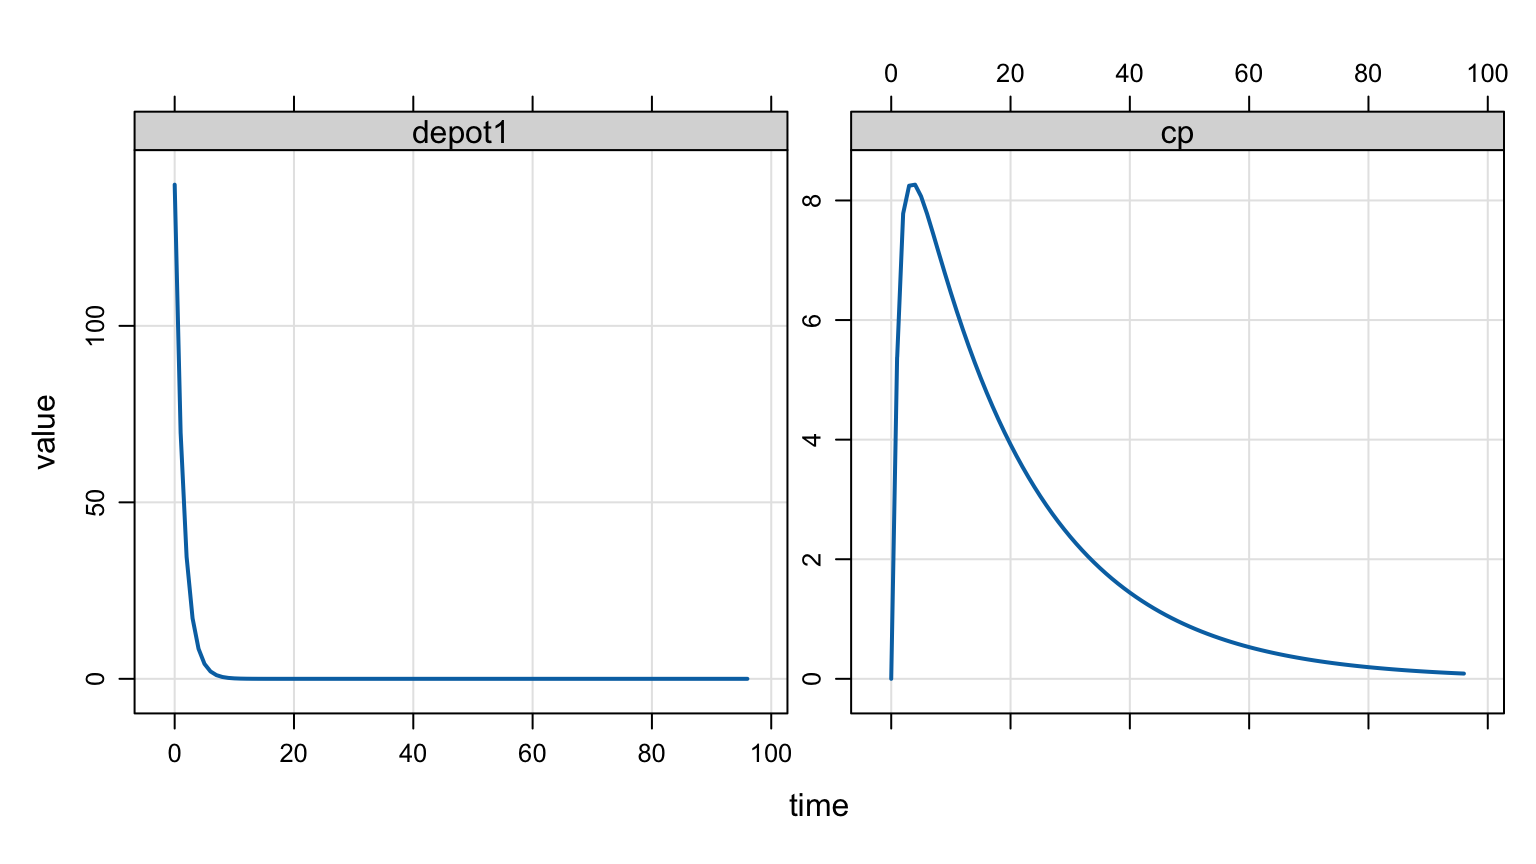
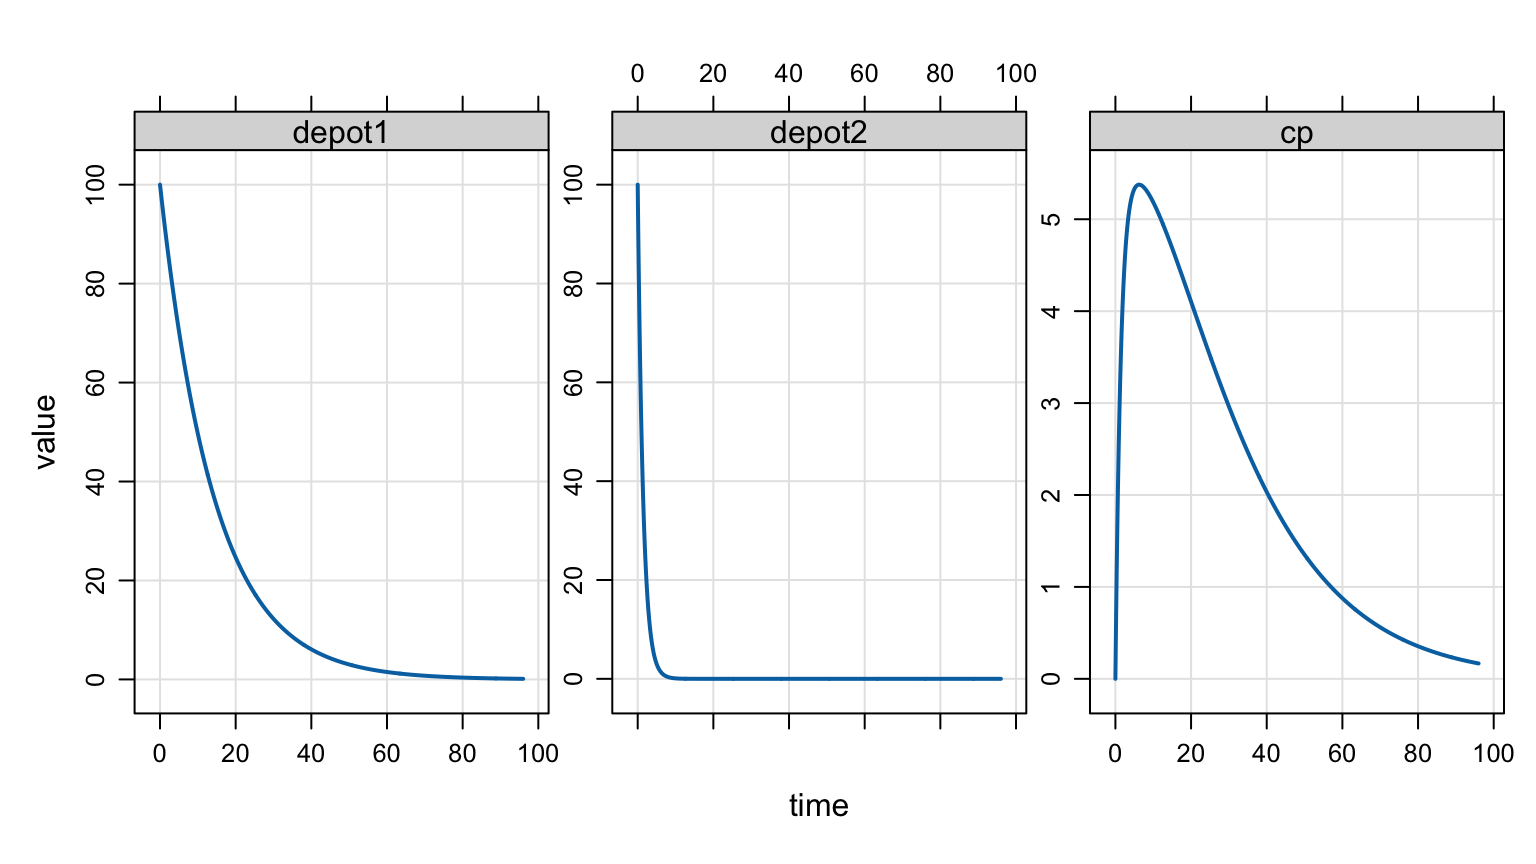
add comparison figure

diff --git a/docs/posts/split-dose.html b/docs/posts/split-dose.html
@@ -418,15 +418,15 @@ Full model code - spilt first-order absorption
 <span id="cb5-6"><a href="#cb5-6" aria-hidden="true" tabindex="-1"></a>ka1 <span class="op">=</span> <span class="fl">0.07</span></span>
 <span id="cb5-7"><a href="#cb5-7" aria-hidden="true" tabindex="-1"></a>ka2 <span class="op">=</span> <span class="fl">0.7</span></span>
 <span id="cb5-8"><a href="#cb5-8" aria-hidden="true" tabindex="-1"></a></span>
-<span id="cb5-9"><a href="#cb5-9" aria-hidden="true" tabindex="-1"></a>$pk</span>
-<span id="cb5-10"><a href="#cb5-10" aria-hidden="true" tabindex="-1"></a>F1 <span class="op">=</span> <span class="fl">0.5</span><span class="op">;</span></span>
-<span id="cb5-11"><a href="#cb5-11" aria-hidden="true" tabindex="-1"></a>F2 <span class="op">=</span> <span class="fl">0.5</span><span class="op">;</span></span>
-<span id="cb5-12"><a href="#cb5-12" aria-hidden="true" tabindex="-1"></a></span>
-<span id="cb5-13"><a href="#cb5-13" aria-hidden="true" tabindex="-1"></a><span class="cf">if</span><span class="op">(</span>CMT<span class="op">==</span><span class="dv">1</span> <span class="op">&amp;&amp;</span> <span class="op">(</span>EVID<span class="op">==</span><span class="dv">1</span> <span class="op">||</span> EVID<span class="op">==</span><span class="dv">4</span><span class="op">))</span> <span class="op">{</span></span>
-<span id="cb5-14"><a href="#cb5-14" aria-hidden="true" tabindex="-1"></a>  evt<span class="op">::</span>bolus<span class="op">(</span>self<span class="op">,</span> AMT<span class="op">,</span> <span class="dv">2</span><span class="op">);</span></span>
-<span id="cb5-15"><a href="#cb5-15" aria-hidden="true" tabindex="-1"></a><span class="op">}</span></span>
-<span id="cb5-16"><a href="#cb5-16" aria-hidden="true" tabindex="-1"></a></span>
-<span id="cb5-17"><a href="#cb5-17" aria-hidden="true" tabindex="-1"></a>$cmt depot1 depot2 central</span>
+<span id="cb5-9"><a href="#cb5-9" aria-hidden="true" tabindex="-1"></a>$cmt depot1 depot2 central</span>
+<span id="cb5-10"><a href="#cb5-10" aria-hidden="true" tabindex="-1"></a></span>
+<span id="cb5-11"><a href="#cb5-11" aria-hidden="true" tabindex="-1"></a>$pk</span>
+<span id="cb5-12"><a href="#cb5-12" aria-hidden="true" tabindex="-1"></a>F1 <span class="op">=</span> <span class="fl">0.5</span><span class="op">;</span></span>
+<span id="cb5-13"><a href="#cb5-13" aria-hidden="true" tabindex="-1"></a>F2 <span class="op">=</span> <span class="fl">0.5</span><span class="op">;</span></span>
+<span id="cb5-14"><a href="#cb5-14" aria-hidden="true" tabindex="-1"></a></span>
+<span id="cb5-15"><a href="#cb5-15" aria-hidden="true" tabindex="-1"></a><span class="cf">if</span><span class="op">(</span>CMT<span class="op">==</span><span class="dv">1</span> <span class="op">&amp;&amp;</span> <span class="op">(</span>EVID<span class="op">==</span><span class="dv">1</span> <span class="op">||</span> EVID<span class="op">==</span><span class="dv">4</span><span class="op">))</span> <span class="op">{</span></span>
+<span id="cb5-16"><a href="#cb5-16" aria-hidden="true" tabindex="-1"></a>  evt<span class="op">::</span>bolus<span class="op">(</span>self<span class="op">,</span> AMT<span class="op">,</span> <span class="dv">2</span><span class="op">);</span></span>
+<span id="cb5-17"><a href="#cb5-17" aria-hidden="true" tabindex="-1"></a><span class="op">}</span></span>
 <span id="cb5-18"><a href="#cb5-18" aria-hidden="true" tabindex="-1"></a></span>
 <span id="cb5-19"><a href="#cb5-19" aria-hidden="true" tabindex="-1"></a>$des</span>
 <span id="cb5-20"><a href="#cb5-20" aria-hidden="true" tabindex="-1"></a>dxdt_depot1 <span class="op">=</span> <span class="op">-</span>ka1 <span class="op">*</span> depot1<span class="op">;</span></span>
@@ -450,12 +450,22 @@ Full model code - spilt first-order absorption
 <div class="cell-output-display">
 <div>
 <figure class="figure">
-<p><img src="split-dose_files/figure-html/unnamed-chunk-7-1.png" class="img-fluid figure-img" width="768"></p>
+<p><img src="split-dose_files/figure-html/unnamed-chunk-8-1.png" class="img-fluid figure-img" width="768"></p>
 </figure>
 </div>
 </div>
 </div>
-<p>Now we see 100 mg going into <code>depot1</code> with slow exit and 100 mg going into <code>depot2</code> with faster exit. The way I’ve set up the example, the concentration increases much more quickly after adding the fast absorption through <code>depot2</code> in combination with the slower absorption via <code>depot1</code>. I don’t know the specifics about the diastereomers from the original question, but we can see that this code splits the dose in two compartments as requested.</p>
+<p>Now we see 100 mg going into <code>depot1</code> with slow exit and 100 mg going into <code>depot2</code> with faster exit. The way I’ve set up the example, the concentration increases much more quickly after adding the fast absorption through <code>depot2</code> in combination with the slower absorption via <code>depot1</code>.</p>
+<div class="cell" data-layout-align="center">
+<div class="cell-output-display">
+<div class="quarto-figure quarto-figure-center">
+<figure class="figure">
+<p><img src="split-dose_files/figure-html/unnamed-chunk-9-1.png" class="img-fluid quarto-figure quarto-figure-center figure-img" width="480"></p>
+</figure>
+</div>
+</div>
+</div>
+<p>I don’t know the specifics about the diastereomers from the original question, but we can see that this code splits the dose in two compartments as requested.</p>
 </section>
 <section id="another-example" class="level1" data-number="4">
 <h1 data-number="4"><span class="header-section-number">4</span> Another example</h1>
@@ -485,15 +495,15 @@ Full model code - spilt first/zero-first order absorption
 <span id="cb7-6"><a href="#cb7-6" aria-hidden="true" tabindex="-1"></a>ka1 <span class="op">=</span> <span class="dv">2</span></span>
 <span id="cb7-7"><a href="#cb7-7" aria-hidden="true" tabindex="-1"></a>ka2 <span class="op">=</span> <span class="fl">0.5</span></span>
 <span id="cb7-8"><a href="#cb7-8" aria-hidden="true" tabindex="-1"></a></span>
-<span id="cb7-9"><a href="#cb7-9" aria-hidden="true" tabindex="-1"></a>$pk</span>
-<span id="cb7-10"><a href="#cb7-10" aria-hidden="true" tabindex="-1"></a>F1 <span class="op">=</span> <span class="fl">0.5</span><span class="op">;</span></span>
-<span id="cb7-11"><a href="#cb7-11" aria-hidden="true" tabindex="-1"></a>F2 <span class="op">=</span> <span class="fl">0.5</span><span class="op">;</span></span>
-<span id="cb7-12"><a href="#cb7-12" aria-hidden="true" tabindex="-1"></a></span>
-<span id="cb7-13"><a href="#cb7-13" aria-hidden="true" tabindex="-1"></a><span class="cf">if</span><span class="op">(</span>CMT<span class="op">==</span><span class="dv">1</span> <span class="op">&amp;&amp;</span> <span class="op">(</span>EVID<span class="op">==</span><span class="dv">1</span> <span class="op">||</span> EVID<span class="op">==</span><span class="dv">4</span><span class="op">))</span> <span class="op">{</span></span>
-<span id="cb7-14"><a href="#cb7-14" aria-hidden="true" tabindex="-1"></a>  evt<span class="op">::</span>infuse<span class="op">(</span>self<span class="op">,</span> AMT<span class="op">,</span> <span class="dv">2</span><span class="op">,</span> AMT<span class="op">/</span><span class="dv">10</span><span class="op">);</span></span>
-<span id="cb7-15"><a href="#cb7-15" aria-hidden="true" tabindex="-1"></a><span class="op">}</span></span>
-<span id="cb7-16"><a href="#cb7-16" aria-hidden="true" tabindex="-1"></a></span>
-<span id="cb7-17"><a href="#cb7-17" aria-hidden="true" tabindex="-1"></a>$cmt depot1 depot2 central</span>
+<span id="cb7-9"><a href="#cb7-9" aria-hidden="true" tabindex="-1"></a>$cmt depot1 depot2 central</span>
+<span id="cb7-10"><a href="#cb7-10" aria-hidden="true" tabindex="-1"></a></span>
+<span id="cb7-11"><a href="#cb7-11" aria-hidden="true" tabindex="-1"></a>$pk</span>
+<span id="cb7-12"><a href="#cb7-12" aria-hidden="true" tabindex="-1"></a>F1 <span class="op">=</span> <span class="fl">0.5</span><span class="op">;</span></span>
+<span id="cb7-13"><a href="#cb7-13" aria-hidden="true" tabindex="-1"></a>F2 <span class="op">=</span> <span class="fl">0.5</span><span class="op">;</span></span>
+<span id="cb7-14"><a href="#cb7-14" aria-hidden="true" tabindex="-1"></a></span>
+<span id="cb7-15"><a href="#cb7-15" aria-hidden="true" tabindex="-1"></a><span class="cf">if</span><span class="op">(</span>CMT<span class="op">==</span><span class="dv">1</span> <span class="op">&amp;&amp;</span> <span class="op">(</span>EVID<span class="op">==</span><span class="dv">1</span> <span class="op">||</span> EVID<span class="op">==</span><span class="dv">4</span><span class="op">))</span> <span class="op">{</span></span>
+<span id="cb7-16"><a href="#cb7-16" aria-hidden="true" tabindex="-1"></a>  evt<span class="op">::</span>infuse<span class="op">(</span>self<span class="op">,</span> AMT<span class="op">,</span> <span class="dv">2</span><span class="op">,</span> AMT<span class="op">/</span><span class="dv">10</span><span class="op">);</span></span>
+<span id="cb7-17"><a href="#cb7-17" aria-hidden="true" tabindex="-1"></a><span class="op">}</span></span>
 <span id="cb7-18"><a href="#cb7-18" aria-hidden="true" tabindex="-1"></a></span>
 <span id="cb7-19"><a href="#cb7-19" aria-hidden="true" tabindex="-1"></a>$des</span>
 <span id="cb7-20"><a href="#cb7-20" aria-hidden="true" tabindex="-1"></a>dxdt_depot1 <span class="op">=</span> <span class="op">-</span>ka1 <span class="op">*</span> depot1<span class="op">;</span></span>
@@ -533,7 +543,7 @@ Full model code - spilt first/zero-first order absorption
 <div class="cell-output-display">
 <div>
 <figure class="figure">
-<p><img src="split-dose_files/figure-html/unnamed-chunk-10-1.png" class="img-fluid figure-img" width="768"></p>
+<p><img src="split-dose_files/figure-html/unnamed-chunk-12-1.png" class="img-fluid figure-img" width="768"></p>
 </figure>
 </div>
 </div>

diff --git a/docs/index.html b/docs/index.html
@@ -288,7 +288,7 @@ window.Quarto = {
 
 <div class="quarto-listing quarto-listing-container-default" id="listing-listing">
 <div class="list quarto-listing-default">
-<div class="quarto-post image-right" data-index="0" data-categories="ZXZ0b29scw==" data-listing-date-sort="1759899600000" data-listing-file-modified-sort="1759938795258" data-listing-date-modified-sort="NaN" data-listing-reading-time-sort="4" data-listing-word-count-sort="741">
+<div class="quarto-post image-right" data-index="0" data-categories="ZXZ0b29scw==" data-listing-date-sort="1759899600000" data-listing-file-modified-sort="1759953928481" data-listing-date-modified-sort="NaN" data-listing-reading-time-sort="4" data-listing-word-count-sort="799">
 <div class="thumbnail"><a href="./posts/split-dose.html" class="no-external">
 
 <p class="card-img-top"><img src="posts/split-dose_files/figure-html/unnamed-chunk-3-1.png"  class="thumbnail-image card-img"/></p>
